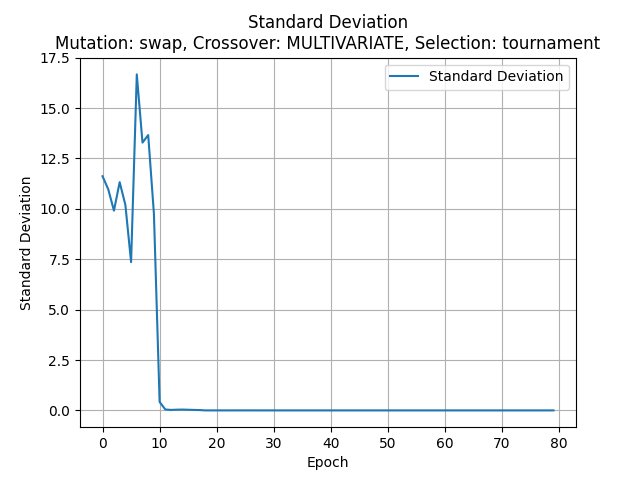
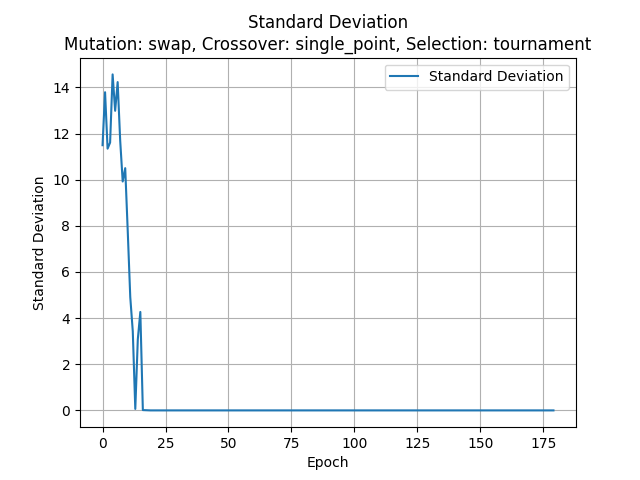
added user inputs
and changed multivariate crossover

diff --git a/main_bin.py b/main_bin.py
@@ -15,22 +15,122 @@ from Helpers.plotsNFiles import make_plot, save_to_file
 
 ############ BINARNA ############
 
-num_genes = 48  #Długość osobnika * Liczba wymiarów
-num_of_dimensions = 2  #Liczba wymiarów
+#Funkcje do pobierania wartości od użytkownika
+def choose_option(prompt, options):
+    print(prompt)
+    for i, option in enumerate(options, 1):
+        print(f"{i}. {option}")
+    choice = input("Wybierz opcję: ")
+    if not choice.isdigit() or int(choice) < 1 or int(choice) > len(options):
+        print("Nieprawidłowy wybór. Wybierz numer opcji z listy.")
+    else:
+        return options[int(choice) - 1]
+
+def get_selection_type():
+    options = ["rws", "random", "tournament"]
+    return choose_option("Wybierz metodę selekcji:", options)
+
+def get_mutation_type():
+    options = ["random", "None", "swap", "inversion", "adaptive"]
+    return choose_option("Wybierz rodzaj mutacji:", options)
+
+def get_crossover_type():
+    options = [
+        CrossingMethodsBin.TEST,
+        CrossingMethodsBin.BUILD_IN_SINGLE_POINT,
+        CrossingMethodsBin.BUILD_IN_DOUBLE_POINT,
+        CrossingMethodsBin.BUILD_IN_UNIFORM,
+        CrossingMethodsBin.SINGLE_POINT,
+        CrossingMethodsBin.DOUBLE_POINT,
+        CrossingMethodsBin.UNIFORM,
+        CrossingMethodsBin.GRAIN,
+        CrossingMethodsBin.SCANNING,
+        CrossingMethodsBin.PARTIAL,
+        CrossingMethodsBin.MULTIVARIATE
+    ]
+    return choose_option("Wybierz typ krzyżowania:", options)
+
+def get_function_enum():
+    options = [FunctionsOptions.RASTRIGIN, FunctionsOptions.SCHWEFEL]
+    return choose_option("Wybierz funkcję optymalizacji:", options)
+
+def get_min_max():
+    options = [MinMax.MIN, MinMax.MAX]
+    return choose_option("Wybierz minimalizację lub maksymalizację:", options)
+
+def get_user_input(prompt, input_type=int):
+    while True:
+        try:
+            value = input_type(input(f"{prompt}: "))
+            if input_type == int and value <= 0:
+                print("Wartość musi być liczbą całkowitą większą od zera.")
+                continue
+            elif input_type == str and not value:
+                print("Wartość nie może być pusta.")
+                continue
+            else:
+                return value
+        except ValueError:
+            print("Wprowadzona wartość jest nieprawidłowa.")
+
+    # return input_type(input(f"{prompt}: "))
+
+def get_input_with_check(prompt, condition):
+    value = get_user_input(prompt)
+    while not condition(value):
+        print(f"Nieprawidłowa wartość: {value}. Proszę, spróbuj ponownie.")
+        value = get_user_input(prompt)
+    return value
+
+#Parametry podawane przez użytkownika
+num_genes = get_user_input("Podaj liczbę genów chromosomu (długość osobnika)")
+num_of_dimensions = get_user_input("Podaj liczbę wymiarów")
+num_generations = get_user_input("Podaj liczbę generacji (epok)")
+sol_per_pop = get_user_input("Podaj liczbę rozwiązań (chromosomów) w populacji")
+num_parents_mating = get_input_with_check(
+    "Podaj liczbę rozwiązań, które zostaną rodzicami",
+    lambda x: x <= sol_per_pop
+)
+
+#Metody wybierane przez użytkownika
+func_enum = get_function_enum()
+func_min_max = get_min_max()
+parent_selection_type = get_selection_type() #The parent selection type. Supported types are sss (for steady-state selection), rws (for roulette wheel selection), sus (for stochastic universal selection), rank (for rank selection), random (for random selection), and tournament (for tournament selection).
+mutation_type = get_mutation_type()
+crossover_type = get_crossover_type()
+
+#q dla MULTIVARIATE
+if crossover_type == CrossingMethodsBin.MULTIVARIATE:
+    q = get_user_input("Podaj liczbę q dla krzyżowania wielowymiarowego")
+else:
+    q = None
+
+
+#Długość osobnika * Liczba wymiarów
+# num_genes = 48  #Number of genes in the solution/chromosome
+# num_of_dimensions = 2  #Liczba wymiarów
 
 ## FLAGI
-func_enum = FunctionsOptions.RASTRIGIN  #Tutaj wybieramy funkcje do optymalizacji
-func_min_max = MinMax.MIN  #Tutaj wybieramy czy liczymy maximum czy minimim
-selected_crossover = CrossingMethodsBin.MULTIVARIATE  #Tutaj wybieramy funkcje crossover
-q = 3 #q dla MULTIVARIATE
-parent_selection_type = "tournament"  #(rws)(random)
-mutation_type = "swap"  #(random)(None)(swap)(inversion)(adaptive)
+# func_enum = FunctionsOptions.RASTRIGIN  #Tutaj wybieramy funkcje do optymalizacji
+# func_min_max = MinMax.MIN  #Tutaj wybieramy czy liczymy maximum czy minimim
+# selected_crossover = CrossingMethodsBin.MULTIVARIATE  #Tutaj wybieramy funkcje crossover
+# q = 3 #q dla MULTIVARIATE
+# parent_selection_type = "tournament"  #(rws)(random)
+# mutation_type = "swap"  #(random)(None)(swap)(inversion)(adaptive)
+
 
 #Przypisanie parametrów
-num_generations = 80
-sol_per_pop = 80
-num_parents_mating = 50
+# num_generations = 80
+# sol_per_pop = 80 #Number of solutions (i.e. chromosomes) within the population
+# num_parents_mating = 50 #Number of solutions to be selected as parents
 
+# q = 3 if crossover_type == CrossingMethodsBin.MULTIVARIATE else None  # q dla MULTIVARIATE
+
+#When mutation_type='adaptive', then list/tuple/numpy.ndarray is expected
+if mutation_type == "adaptive":
+    mutation_num_genes = numpy.ones(num_genes, dtype=int)  # Lista o długości równej liczbie genów
+else:
+    mutation_num_genes = 1  # Pojedyncza wartość całkowita
 
 func = bf.Rastrigin(n_dimensions=num_of_dimensions) \
     if func_enum == FunctionsOptions.RASTRIGIN \
@@ -40,31 +140,42 @@ decode_start = func.suggested_bounds()[0][0]  #zakres początkowy w szukanej fun
 decode_end = func.suggested_bounds()[1][0]  ##zakres końcowy w szukanej funkcji
 
 # crossover_type = "uniform"  #(single_point)(two_points)(uniform)
-match (selected_crossover):  #przypisanie własnych funckji crossover
+match (crossover_type):  #przypisanie własnych funkcji crossover
     case CrossingMethodsBin.TEST:
         crossover_type = TestCrossover
     case CrossingMethodsBin.BUILD_IN_SINGLE_POINT:
         crossover_type = CrossingMethodsBin.BUILD_IN_SINGLE_POINT.value
+        crossover_name = CrossingMethodsBin.BUILD_IN_SINGLE_POINT.value
     case CrossingMethodsBin.BUILD_IN_DOUBLE_POINT:
         crossover_type = CrossingMethodsBin.BUILD_IN_DOUBLE_POINT.value
+        crossover_name = CrossingMethodsBin.BUILD_IN_DOUBLE_POINT.value
     case CrossingMethodsBin.BUILD_IN_UNIFORM:
         crossover_type = CrossingMethodsBin.BUILD_IN_UNIFORM.value
+        crossover_name = CrossingMethodsBin.BUILD_IN_UNIFORM.value
     case CrossingMethodsBin.SINGLE_POINT:
         crossover_type = SinglePointCrossover
+        crossover_name = CrossingMethodsBin.SinglePointCrossover.value
     case CrossingMethodsBin.DOUBLE_POINT:
         crossover_type = TwoPointCrossover
-    case CrossingMethodsBin.UNIFORM:
+        crossover_name = CrossingMethodsBin.DOUBLE_POINT_STRING
+    case CrossingMethodsBin.TRIPLE_POINT:
         crossover_type = ThreePointCrossover
+        crossover_name = CrossingMethodsBin.TRIPLE_POINT_STRING
     case CrossingMethodsBin.UNIFORM:
         crossover_type = UniformCrossover
+        crossover_name = CrossingMethodsBin.UNIFORM_STRING
     case CrossingMethodsBin.GRAIN:
         crossover_type = GrainCrossover
+        crossover_name = CrossingMethodsBin.GRAIN_STRING
     case CrossingMethodsBin.SCANNING:
         crossover_type = ScanningCrossover(num_of_dimensions).crossover
+        crossover_name = CrossingMethodsBin.SCANNING_STRING
     case CrossingMethodsBin.PARTIAL:
         crossover_type = PartialCopyCrossover
+        crossover_name = CrossingMethodsBin.PARTIAL_STRING
     case CrossingMethodsBin.MULTIVARIATE:
         crossover_type = MultivariateCrossover(q).crossover
+        crossover_name = CrossingMethodsBin.MULTIVARIATE_STRING
 
 def fitness_func_min(ga_instance, solution,
                      solution_idx):
@@ -81,9 +192,9 @@ def fitness_func_max(ga_instance, solution,
 fitness_function = fitness_func_min if func_min_max == MinMax.MIN else fitness_func_max
 
 ##(start) Parametry gwarantujące nam rozwiązanie binarne
-init_range_low = 0
-init_range_high = 2
-mutation_num_genes = 1
+init_range_low = 0 #The lower value of the random range from which the gene values in the initial population are selected
+init_range_high = 2 # The upper value of the random range from which the gene values in the initial population are selected
+#mutation_num_genes = 1
 gene_type = "int"
 ##(end) Parametry gwarantujące nam rozwiązanie binarne
 
@@ -142,6 +253,7 @@ ga_instance = pygad.GA(num_generations=num_generations,
                        random_mutation_min_val=0,
                        logger=logger,
                        on_generation=on_generation,
+                       delay_after_gen=0.05,
                        parallel_processing=['thread', 4])
 ga_instance.run()
 
@@ -166,9 +278,15 @@ for stat, label in zip(statistics, labels):
         file_name = os.path.join('Plots', f'Bin{label.replace(" ", "")}'),
         title = label,
         mutation_type = mutation_type,
-        crossover_type = selected_crossover.name,
-        selection_type = parent_selection_type
+        crossover_type = crossover_name,
+        selection_type = parent_selection_type,
+        num_genes = num_genes,
+        num_of_dimensions = num_of_dimensions,
+        num_generations = num_generations,
+        sol_per_pop = sol_per_pop,
+        num_parents_mating = num_parents_mating
     )
 
 
 
+    plt.legend([f"num_genes={num_genes}", f"num_of_dimensions={num_of_dimensions}", f"num_generations={num_generations}", f"sol_per_pop={sol_per_pop}", f"num_parents_mating={num_parents_mating}"])

diff --git a/Helpers/crossingMethodsBin.py b/Helpers/crossingMethodsBin.py
@@ -166,26 +166,56 @@ class MultivariateCrossover(CrossoverMethod):
     def __init__(self, q):
         self.q = q
 
-    def crossover(self, population: np.ndarray, offspring_size, ga_instance):
-        offspring = []
-        n_offspring = offspring_size[0]
-        n_spec = offspring_size[1]
-        while len(offspring) != n_offspring:
-            p1_idx, p2_idx = random.randint(0, n_spec), random.randint(0, n_spec)
-            parent1, parent2 = population[p1_idx], population[p2_idx]
-            cp: int = random.randint(0, len(parent1) - 2)
-            child1 = None
-            child2 = None
-            for j in range(self.q - 1):
-                if random.random() <= 0.5:
-                    child1 = np.append(parent1[:cp], parent2[cp:])
-                    child2 = np.append(parent2[:cp], parent1[cp:])
-                else:
-                    child1 = parent1
-                    child2 = parent2
-            offspring.append(np.array(child1))
-            offspring.append(np.array(child2))
-            if len(offspring) == n_offspring + 1:
-                return np.array(offspring[:-1])
+    # def crossover(self, population: np.ndarray, offspring_size, ga_instance):
+    #     offspring = []
+    #     n_offspring = offspring_size[0]
+    #     n_spec = offspring_size[1]
+    #     while len(offspring) != n_offspring:
+    #         p1_idx, p2_idx = random.randint(0, n_spec), random.randint(0, n_spec)
+    #         parent1, parent2 = population[p1_idx], population[p2_idx]
+    #         cp: int = random.randint(0, len(parent1) - 2)
+    #         child1 = None
+    #         child2 = None
+    #         for j in range(self.q - 1):
+    #             if random.random() <= 0.5:
+    #                 child1 = np.append(parent1[:cp], parent2[cp:])
+    #                 child2 = np.append(parent2[:cp], parent1[cp:])
+    #             else:
+    #                 child1 = parent1
+    #                 child2 = parent2
+    #         offspring.append(np.array(child1))
+    #         offspring.append(np.array(child2))
+    #         if len(offspring) == n_offspring + 1:
+    #             return np.array(offspring[:-1])
 
-        return np.array(offspring)
+    #     return np.array(offspring)
+
+    def crossover(self, population: np.ndarray, offspring_size, ga_instance):
+            offspring = []
+            n_offspring = offspring_size[0]
+            n_spec = len(population)
+
+            while len(offspring) < n_offspring:
+                p1_idx = random.randint(0, n_spec - 1)
+                p2_idx = random.randint(0, n_spec - 1)
+                while p2_idx == p1_idx:
+                    p2_idx = random.randint(0, n_spec - 1)
+
+                parent1, parent2 = population[p1_idx], population[p2_idx]
+                child1, child2 = parent1.copy(), parent2.copy()
+
+                for _ in range(self.q - 1):
+                    cp = random.randint(1, len(parent1) - 2)
+                    if random.random() <= 0.5:
+                        child1 = np.append(parent1[:cp], parent2[cp:])
+                        child2 = np.append(parent2[:cp], parent1[cp:])
+                    else:
+                        child1, child2 = parent1, parent2
+
+                offspring.append(child1)
+                offspring.append(child2)
+
+                if len(offspring) > n_offspring:
+                    offspring = offspring[:n_offspring]
+
+            return np.array(offspring)

diff --git a/Helpers/plotsNFiles.py b/Helpers/plotsNFiles.py
@@ -1,12 +1,13 @@
 from matplotlib import pyplot as plt
 
-def make_plot(values: list, file_name: str, title: str, mutation_type: str, crossover_type: str, selection_type: str, y_scale: str = 'linear') -> None:
+def make_plot(values: list, file_name: str, title: str, mutation_type: str, crossover_type: str, selection_type: str, num_genes: str, num_of_dimensions: str, num_generations: str, sol_per_pop: str, num_parents_mating: str,  y_scale: str = 'linear') -> None:
     plt.plot(values, label=title)
     plt.yscale(y_scale)
     plt.title(f'{title}\nMutation: {mutation_type}, Crossover: {crossover_type}, Selection: {selection_type}')
     plt.xlabel('Epoch')
     plt.ylabel(title)
-    plt.legend()
+    # plt.legend()
+    plt.legend([f"num_genes={num_genes}", f"num_of_dimensions={num_of_dimensions}", f"num_generations={num_generations}", f"sol_per_pop={sol_per_pop}", f"num_parents_mating={num_parents_mating}"])
     plt.grid(True)
     plt.savefig(f'{file_name}.png')
     plt.show()
